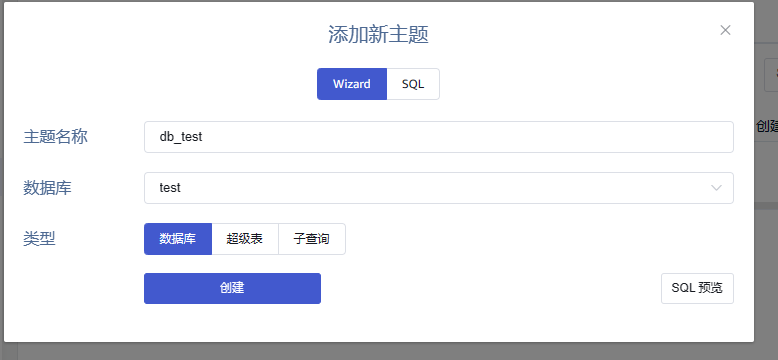
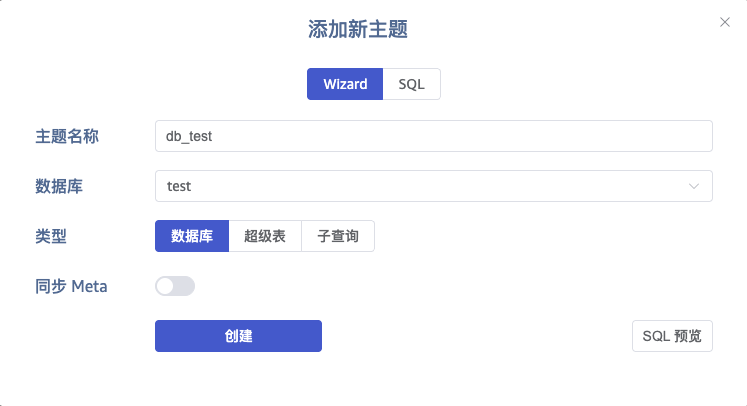
docs(datain): add topic meta options docs in tmq

diff --git a/docs/zh/06-advanced/05-data-in/02-tmq.md b/docs/zh/06-advanced/05-data-in/02-tmq.md
@@ -19,6 +19,10 @@ sidebar_label: "TDengine3"
 
 ![准备二](./tmq-pre2.png)
 
+对于 `数据库` 或 `超级表` 类型，如果需要同步表的增/删/改操作，则需要开启 `同步 Meta` 选项用于数据库/超级表的迁移，否则此主题只会进行数据同步。
+
+关于主题的创建，详情请参考 [数据订阅](../../14-reference/03-taos-sql/13-tmq.md) 章节。
+
 ### 第三步：复制主题的 DSN
 
 点击“创建”按钮，回到主题列表复制主题的 **DSN** 备用。
